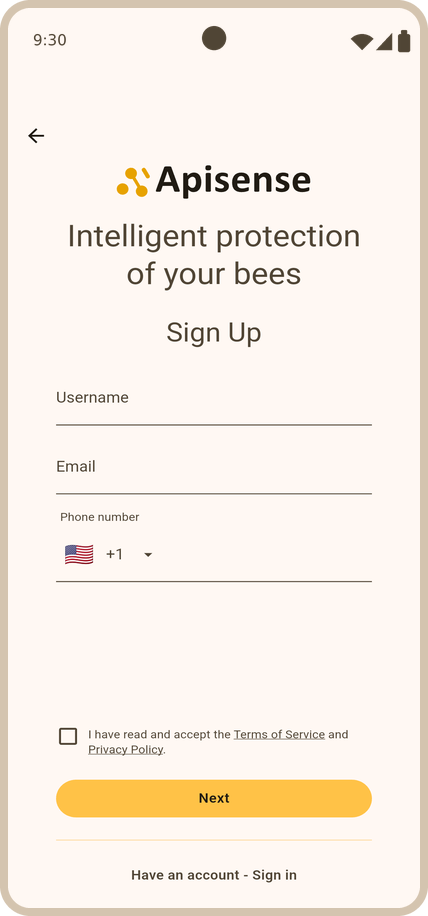
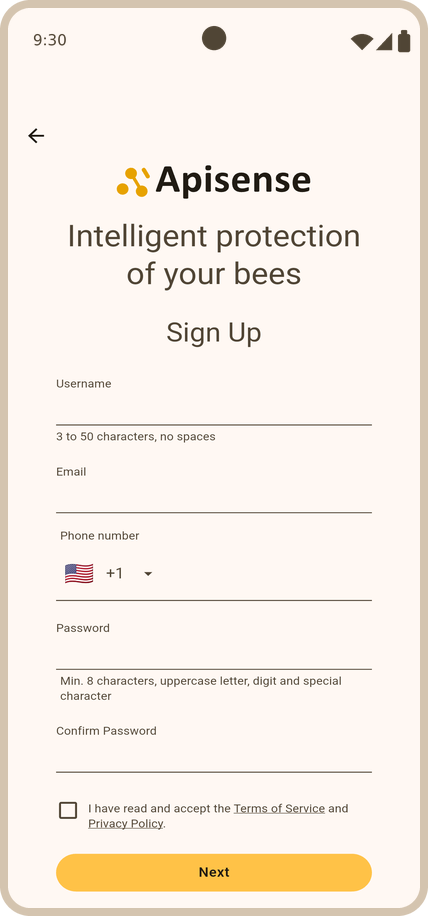
docs(manual): odświeżone screenshoty rejestracji + nowa rycina kroku ColonyLink
Screenshoty z suite'u `apisense-mobile` (`make screenshots`, ENV=qa,
SCREENSHOT_MODE=true, locale EN):

- rejestracja / zaloz_konto / utworz_haslo — przebudowany krok 1 rejestracji
  (hasło w kroku 1, podpowiedzi walidacji, login bez spacji, apisense-mobile#347).
- add_beehive_devices_colonylink — NOWA rycina; sekcja 2.1.1 (Krok ColonyLink)
  do tej pory nie miała żadnego obrazka. Kadr z planu, w którym ColonyLink jest
  opcjonalny (widoczny komunikat o pominięciu kroku) — podpis to odnotowuje.
- logowanie i pytanie_o_doswiadczenie bez zmian (bajt w bajt jak opublikowane).

Manual PL i EN: odsyłacz do nowej kotwicy #fig-add-beehive-devices-colonylink
w kroku ColonyLink + blok Figure z obrazkiem.

Weryfikacja: check_image_refs.py --against main (zbiór nazw bez zmian, 1 nowa
referencja), check_anchors.py --against main (0 nowych złamań), mkdocs build --strict.

diff --git a/docs/manual/app-manual.pl.md b/docs/manual/app-manual.pl.md
@@ -288,7 +288,7 @@ Etap wyposażenia to od jednego do trzech osobnych ekranów, zawsze w tej samej 
 
 #### 2.1.1 Krok ColonyLink
 
-- Po informacjach o matce zostanie wyświetlony ekran *Wyposażenie - zeskanuj kod QR z Apisense ColonyLink*. Wypełnij pola:
+- Po informacjach o matce zostanie wyświetlony ekran *Wyposażenie - zeskanuj kod QR z Apisense ColonyLink* ([](#fig-add-beehive-devices-colonylink)). Wypełnij pola:
 
     - **ColonyLink** - kliknij w ikonę kodu QR znajdującą się w prawej części tego pola i zeskanuj kod QR z Apisense ColonyLink. Kolejne pole *Kod potwierdzający* zostanie wypełnione automatycznie.
     - **Kod potwierdzający** - zostanie wypełniony automatycznie, po poprawnym zeskanowaniu kodu QR.
@@ -297,6 +297,10 @@ Etap wyposażenia to od jednego do trzech osobnych ekranów, zawsze w tej samej 
 
 !!! note
     W niektórych planach ColonyLink jest opcjonalny. Poznasz to po komunikacie *„ColonyLink jest opcjonalny w Twoim planie — możesz pominąć ten krok"*, wyświetlanym pod nagłówkiem ekranu. Wtedy możesz zostawić oba pola puste i przejść dalej. Nie da się natomiast wypełnić tylko jednego z nich — albo oba, albo żadne.
+
+Figure: Dodawanie ula w systemie - sekcja Wyposażenie - przypisywanie urządzenia ColonyLink (w planie, w którym krok jest opcjonalny) {#fig-add-beehive-devices-colonylink}
+
+![figure](pictures/add_beehive_devices_colonylink.png){width=200}
 
 - To, co dzieje się po tym kroku, zależy od pasieki:
 

diff --git a/docs/manual/app-manual.en.md b/docs/manual/app-manual.en.md
@@ -291,7 +291,7 @@ The equipment stage consists of one to three separate screens, always in the sam
 
 #### 2.1.1 The ColonyLink step
 
-- After the queen information, the *Equipment - scan the QR code from Apisense ColonyLink* screen is displayed. Fill in the fields:
+- After the queen information, the *Equipment - scan the QR code from Apisense ColonyLink* screen is displayed ([](#fig-add-beehive-devices-colonylink)). Fill in the fields:
 
     - **ColonyLink** — click the QR code icon on the right side of this field and scan the QR code from the Apisense ColonyLink. The next *Confirmation code* field will be filled in automatically.
     - **Confirmation code** — filled in automatically after a successful QR scan.
@@ -300,6 +300,10 @@ The equipment stage consists of one to three separate screens, always in the sam
 
 !!! Note
     On some plans ColonyLink is optional. You will recognise this by the message *"ColonyLink is optional on your plan — you can skip this step"* shown under the screen heading. In that case you may leave both fields empty and continue. You cannot, however, fill in just one of them — either both or neither.
+
+Figure: Adding a hive — Equipment section, linking ColonyLink (on a plan where the step is optional) {#fig-add-beehive-devices-colonylink}
+
+![figure](pictures/add_beehive_devices_colonylink.png){width=200}
 
 - What happens after this step depends on the apiary:
 
